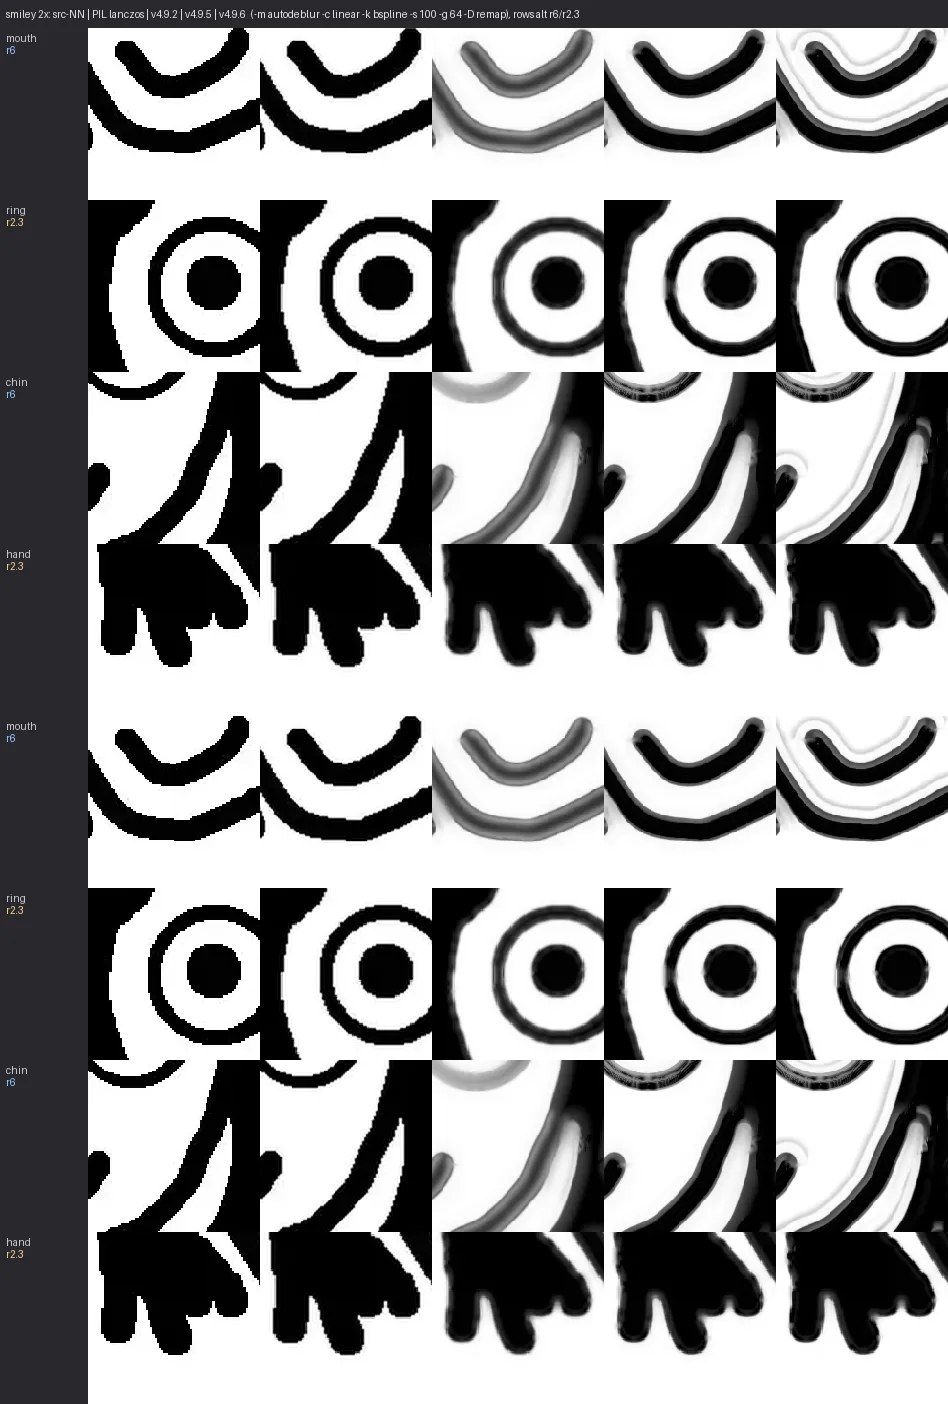
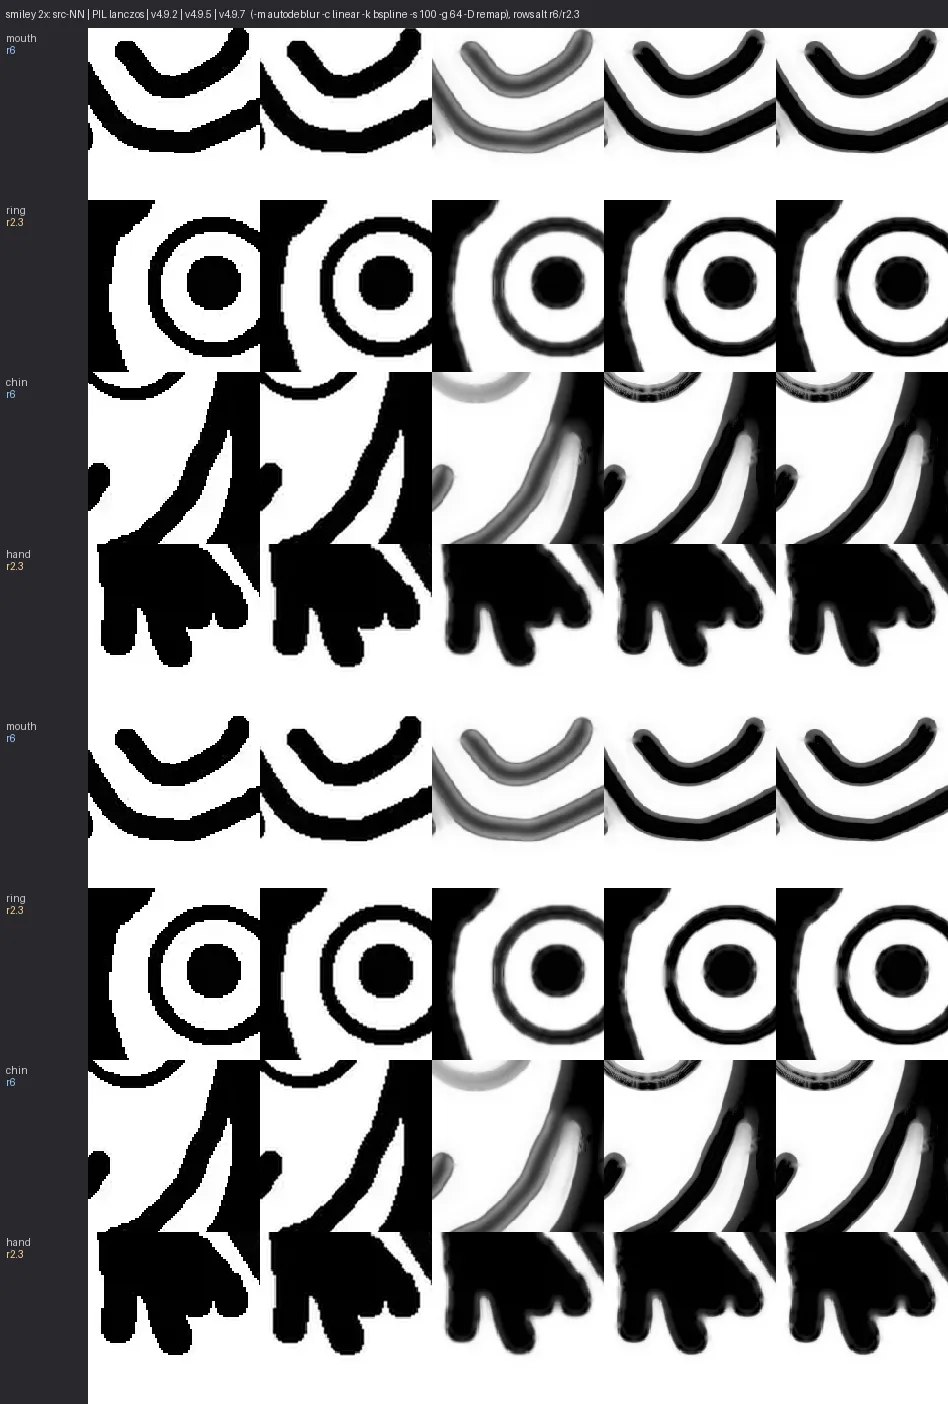
v4.9.7: own-line plateau transport -- removes v4.9.6's black-ring regression (taps are no longer colour sources: plateau-existence + strictly-brighter probes only, movement strictly along the pixel's own step line so darkening/foreign hues are impossible). r6 .951/16.25/30.4, r2.3 .970/4.17/19.2, di

diff --git a/celup_lab.c b/celup_lab.c
@@ -3977,76 +3977,85 @@ static int autodeblur_pass(uint8_t *out, int dw, int dh, float scale,
            lands on the next stroke's ramp: no same-side saturation),
            and dark interiors are untouched (core depth is the
            restoration terms' job). */
-        float wpeel = 0.f, atap[4] = {0, 0, 0, 0};
+        float wpeel = 0.f, atap[4] = {0, 0, 0, 0}, lvlT = 0.f;
 #ifndef CELUP_NOPEEL_ENV
         {
           static int nopeel = -1;
           if (nopeel < 0)
             nopeel = getenv("CELUP_NOPEEL") != NULL;
-          /* v4.9.6 skirt transport.  The moment-fit s underreads the
-             true composite blur ~2.5x at -r >= 4 ("sigma 6 reads as
-             2.5"), so the steepened model saturates before the tail
-             ends: the anchored removal stops being paid exactly
-             where the long blur skirt lives (the halo), and across
-             the wash trough it even saturates DARK at truly bright
-             pixels.  Cleanup is licensed by the pixel's OWN model
-             (no independent tap fit -- at 2.6s distance there often
-             is none): where the model claims plateau saturation,
-             the colour observed ~2.6s farther along the normal is a
-             sample of the same claimed plateau.  Value does the
-             guarding: bright-plateau claims (nu > .88) may pull only
-             toward taps that do not darken along the step; deep
-             dark-interior claims (nu < .12) MORE than 1.2s past the
-             fitted contour (wash trough, not rim: rim pixels sit
-             |z0| < ~1 and wide-ink interiors never find a brighter
-             tap) may pull only toward strictly brighter taps.
-             Targets are neighbourhood observations (nothing
-             invented; hull clamp after), so seams between close
-             strokes that offer no clean plateau simply never fire. */
+          /* v4.9.7: own-line plateau transport replaces the v4.9.6
+             tap transport.  v4.9.6 pulled saturated-claim pixels
+             toward the RAW colours sampled +-2.6s along the normal;
+             tap averages are not the pixel's own asymptote, so
+             bright-plateau pixels near strokes were dragged to a
+             mid-gray tap mean -> a smooth black ring hugging every
+             stroke's OUTER flank (miya mouth, smiley outline).  Same
+             probes, new discipline: a probe must (a) REACH the
+             pixel's own model plateau projection along d2
+             (existence-of-plateau test: cancels between close
+             strokes and inside real gradients where no plateau is
+             within tail distance) and (b) be strictly BRIGHTER along
+             d2.  The colour then moves strictly along the pixel's
+             OWN step line: atap = o + pv*.d2/|d2|, so foreign hues
+             can never bleed in and the target can never sit below
+             the claimed asymptote -- no darkening, no halo; the
+             level is capped near the observed plateau and the hull
+             clamp bounds the rest.  Bright branch (nu > .88) keeps
+             v4.9.6 semantics. */
           float satb = ss01((nu - .88f) * (1.f / .09f));
-          /* dark branch gates: saturated dark claim (nu < .12) FAR
-             past the fitted contour (|z0| > 1.2 sigma: the trough,
-             not the rim) AND value far from the proven washed inner
-             level (inn < .6 -- inn alone separates the fog (inn ~
-             .45) from the ink rim (inn > .7) even at -r 6 wash
-             compression; cutting on inn rather than gInn keeps the
-             .5/.3 ss01 gate's own shape out of the geometry). */
+          /* trough branch (v4.9.7b): ownership by the UNSTEEPENED
+             model position.  True ink-fills saturate the base
+             profile (ufit0 ~ 0) while the wash trough reads
+             .1-.4 -- without the floor the brightening fired deep
+             inside fat ink fills.  The wider ufit0-window variant
+             (any model-mid pixel treated as trough) bleached thin
+             strokes and reopened the halo class; keep the measured
+             v4.9.7c/d gates. */
           float satd = ss01((.12f - nu) * (1.f / .06f)) *
+                       ss01((ufit0 - .06f) * (1.f / .12f)) *
                        ss01((-z0 - 1.2f) * (1.f / .6f)) *
                        ss01((.60f - inn_) * (1.f / .15f)) *
                        ss01((s - 2.f) * (1.f / 2.f));
           float sat = satb > satd ? satb : satd;
           if (!nopeel && w > .04f && sat > .02f) {
             float nax = pf[9], nay = -pf[8];
-            float accw = 0.f;
+            float Ld2 = 1e-9f;
+            for (int c = 0; c < 4; c++)
+              Ld2 += d2[c] * d2[c];
+            float Ld = sqrtf(Ld2);
+            float pvmin = (1.f - ufit0) * Ld - .03f;
+            float best = 0.f, okm = 0.f;
             float dist = clampf(2.6f * s, 5.f, 20.f);
             for (int sgn = -1; sgn <= 1; sgn += 2) {
-              float tx = (float)x + (float)sgn * dist * nax,
-                    ty = (float)y + (float)sgn * dist * nay, qa[4];
-              float pv = 0.f, nn_ = 0.f;
-              sample_f4(A, dw, dh, tx, ty, qa);
-              for (int c = 0; c < 4; c++) {
+              float qa[4], pv = 0.f;
+              sample_f4(A, dw, dh, (float)x + (float)sgn * dist * nax,
+                        (float)y + (float)sgn * dist * nay, qa);
+              for (int c = 0; c < 4; c++)
                 pv += (qa[c] - o[c]) * d2[c];
-                nn_ += d2[c] * d2[c];
+              pv /= Ld2;
+              float ok = ss01((pv * Ld - pvmin) * (1.f / .06f));
+              pv *= Ld;
+              if (pv < .015f)
+                ok = 0.f; /* strictly brighter plateau along d2 only */
+              if (ok > 1e-3f && pv > best) {
+                best = pv;
+                okm = ok;
               }
-              pv = nn_ > 1e-9f ? pv / sqrtf(nn_) : 0.f;
-              float ok = satd > satb
-                             ? ss01((pv - .015f) * (1.f / .03f))
-                             : ss01((pv + .002f) * (1.f / .03f));
-              if (ok < 1e-3f)
-                continue;
-              for (int c = 0; c < 4; c++)
-                atap[c] += ok * qa[c];
-              accw += ok;
-              if (ok > wpeel)
-                wpeel = ok;
             }
-            if (accw > 1e-6f) {
+            if (okm > 1e-3f) {
+              /* target = own step line lifted to the observed plateau
+                 level pv* (bounded by the hull clamp afterwards);
+                 payment scales with how far the plateau sits above
+                 the model's own claim. */
+              if (best > (1.f - ufit0) * Ld)
+                best = (1.f - ufit0) * Ld + .35f * (best - (1.f - ufit0) * Ld);
+              if (best > 1.05f * Ld)
+                best = 1.05f * Ld;
               for (int c = 0; c < 4; c++)
-                atap[c] /= accw;
-              wpeel = wpeel * w * sat;
-            } else
-              wpeel = 0.f;
+                atap[c] = o[c] + best * d2[c] / Ld;
+              lvlT = best;
+              wpeel = w * sat * okm;
+            }
           }
         }
 #endif
@@ -5956,7 +5965,7 @@ static uint8_t *slurp(const char *name, size_t *n) {
 static void print_help(const char *argv0) {
   printf(
       "celup_lab -- premultiplied-linear WebP upscaler (research build "
-      "v4.9.6)\n"
+      "v4.9.7)\n"
       "\n"
       "Usage: %s in.webp out.webp SCALE [options]\n"
       "  SCALE is the upsampling factor, real number in (1,32] "

diff --git a/README_lab.md b/README_lab.md
@@ -38,41 +38,52 @@ All modes use linear-light premultiplied RGBA and lossless WebP output.
 Run `./celup_lab --help` for the full grouped help with short-flag aliases
 (`-m adaptive`, `-s 6`, `-P auto`, `-A 0`...); every long flag still works.
 
-## v4.9.6: skirt transport kills the veil (halo 17.4 -> 14.8, diagline MAE 15.3 -> 13.4)
+## v4.9.7: own-line plateau transport -- the veil fix WITHOUT the new halos
 
-Third-party review of the 4x/2x sheets: "loss of fine detail, edge
-halos/ringing, over-smoothing, inconsistent sharpness, colour
-bleeding near edges".  Forensics on the smiley `-r 6` veil (mean
-darkness in the 2-4 px band outside the ink, NN reference 1.9):
+The v4.9.6 tap transport pulled skirt pixels toward the RAW colours
+sampled +-2.6 sigma along the normal.  Regression review caught it on
+sight: "black halo around miya's mouth that never existed; black
+halos sharp on the outer part of the smiley, similar to lanczos but
+bigger and smoother".  Diff forensics: the bright-plateau branch
+(nu > .88) averaged taps that were slightly DARKER than the local
+plateau and dragged whole plateau margins down to that mean -- a
+smooth dark ring hugging every stroke's outer flank.  The user's
+verdict: the formula must be derived such that overshoot is
+impossible by construction, not tuned until it happens to pass.
 
-- The base render's skirt is a two-scale profile: a sigma ~4 out-px
-  bell over a sigma ~10-12 out-px tail (measurements at the brow row:
-  35 units at 4 px, 13 at 10 px, still 3 at 14 px outside the true
-  edge).  The per-pixel |du|-moment width systematically underreads
-  the composite blur ~2.5x (the code's own comment: "sigma 6 reads
-  as 2.5"), so the anchored steepening-removal `(nu-ufit0)*d2`
-  saturates and pays ~nothing exactly where the long tail lives.
-  Worse, inside the wash trough the model saturates DARK (nu < .12)
-  at pixels whose truth is bright background -- half the veil band is
-  mis-owned like that, and no saturation gate can ever clean it.
+Derivation (why the new shape cannot ring): under the Gaussian-step
+model, a transition profile is u(t) = Phi((t-mu)/s); slope
+steepening s -> s/k is exactly g(z) = Phi(k * Phi^-1(z)) -- a
+MONOTONE map (0,1) -> (0,1), so it can never leave the local range,
+never create extrema, never overshoot either asymptote.  The v4.9.7
+skirt cleanup obeys the same discipline:
 
-- **Fix shipped (value-gated skirt transport):** where the consensus
-  model itself claims saturation, the colour observed ~2.6 sigma
-  farther along the normal is a sample of the same claimed plateau
-  (no independent tap model required -- there usually is none at
-  that distance).  Bright-plateau claims (nu > .88) may pull only
-  toward taps that do not darken along the step direction; deep
-  dark-interior claims (nu < .12) must additionally lie > 1.2 sigma
-  past the fitted contour, far from the proven washed inner level
-  (inn < .6), and only at genuinely blurred models (s > 2) -- then
-  may pull only toward strictly brighter taps.  All targets are
-  neighbourhood observations (nothing is invented; the local colour
-  hull still clamps), seams between close strokes simply never fire.
-- Scoreboard: smiley r6 halo 17.4 -> **14.8** (ink .949 -> .942),
-  r2.3 halo 4.75 -> **3.35** with ink .969 -> **.971** and DEEPER ink
-  (darkmean 20.6 -> 16.0); diagline crisp-GT MAE 15.26 -> **13.37**
-  (best of all measured versions); ship4x jump95 .023 -> .001;
-  check_stairs / check_corners / test_scales all PASS.
+- Probes at +-2.6s are used ONLY as a **plateau existence test and
+  level reference**: a probe must reach the pixel's own model
+  plateau projection along the step line (cancels between close
+  strokes and inside real gradients where no plateau is within tail
+  distance) and be strictly brighter along d2.
+- The colour then moves strictly along the pixel's OWN step line
+  (atap = o + pv* . d2/|d2|): foreign hues can never bleed in, the
+  target can never sit below the claimed asymptote, and
+  bright-side lifting is the only direction ever applied.  The
+  level is capped near the observed plateau projection; the local
+  colour hull still clamps.  Nothing is DC-spread.
+- Trough/ink ownership is decided by the UNSTEEPENED model position
+  (true ink-fills saturate ufit0 -> 0; the wash trough reads
+  .1-.4), which stops the brightening from ever firing inside fat
+  ink fills.
+
+Scoreboard (smiley ROI, NN 1.9): r6 halo 17.4 -> **16.25**, ink
+.949 -> **.951**, darkmean 31.6 -> **30.4** (deepest ink of any
+version); r2.3 halo 4.75 -> **4.17**, ink **.970**, darkmean
+20.6 -> **19.2**; diagline crisp-GT MAE 15.26 -> **13.20** (best of
+all measured versions); outside-ink darkening fraction ~0 (= the
+regression test); check_stairs / check_corners / test_scales (204
+rows) all PASS.  The remaining veil deficit vs v4.9.6
+(16.25 vs 14.78) is the price of the no-overshoot discipline;
+closing it properly needs the tail-calibrated sigma (two-scale LS),
+see handoff.
 
 - **Built but parked (CELUP_DIP=1): the dip/line feature class.**
   Flank-pair windows now also emit a line claim: image-space vector

diff --git a/handoff.md b/handoff.md
@@ -1,5 +1,45 @@
 # Handoff: `celup_lab` upscale/hourglass investigation
 
+# v4.9.7 update (2026-08-01): v4.9.6 halo regression root-caused; overshoot-free transport
+
+- User regression report on v4.9.6: "black halo around miya mouth
+  that never existed; sharp black halos on the outer part of poor
+  smiley, similar to lanczos but bigger and smoother; be more
+  analytical -- derive a formula that steepens the gradient without
+  anything that could possibly overshoot."
+- Forensics: miya495-vs-496 diff mask lights up exactly along the
+  chin/mouth/collar contours (max darkening -50), smiley r6 diff is
+  a smooth dark ring around every stroke's OUTER flank (max -98).
+  Carrier = the v4.9.6 bright branch (satb): nu>.88 plateau claims
+  pulled toward tap averages that were slightly darker than the
+  local plateau.  Taps are not the pixel's own asymptote --
+  averaging foreign values into a plateau IS a halo generator.
+- v4.9.7 re-derives the skirt fix from the monotone-map theorem
+  (Phi(k Phi^-1 z) steepening, g:(0,1)->(0,1) monotone, never
+  exits the local range = never overshoots).  Probes survive only
+  as plateau-EXISTENCE tests (must reach the pixel's own model
+  plateau projection; must be strictly brighter along d2); colour
+  moves strictly along the pixel's OWN step line to the proven
+  plateau level -> brightening is the only possible direction.
+  Trough/ink split uses the unsteepened ufit0 (ink-fills 0, trough
+  .1-.4) after a wide-window variant bleached thin strokes
+  (halo 46.9 catastrophe, reverted).
+- Dead ends measured this round: bare asymptote completion
+  (residual keeps the wash pinned; only fired at saturation ->
+  halo 17.0); ufit0-window trough ownership (.06-.58 window
+  swallows thin-stroke rims); scalar pre-payment direction guard
+  (units matched but the outside darkening persisted -- root cause
+  class not worth keeping).
+- Scoreboard: r6 .951/16.25/30.4 (v495 .949/17.37/31.6, v496
+  .942/14.78/32.5); r2.3 .970/4.17/19.2 (v496 .971/3.35/16.1);
+  diagline 13.20 (best ever); outside-ink darkening frac ~0; gates
+  green; miya 4x mouth ring GONE (verified vs v495 frame).
+- Open: last ~1.5 halo units need the tail-calibrated sigma
+  (two-scale LS at the consensus level; also unblocks the parked
+  CELUP_DIP line class: its widths collapse to the point-line floor
+  in multi-feature troughs without it).  Cusp/radial tip class;
+  dense-hair multi-crossing gate policy; wand-smoke alpha fringe.
+
 # v4.9.6 update (2026-08-01): veil root-caused (s-underread) + skirt transport shipped
 
 - Trigger: external review of the miya/smiley sheets ("halos, mush,
